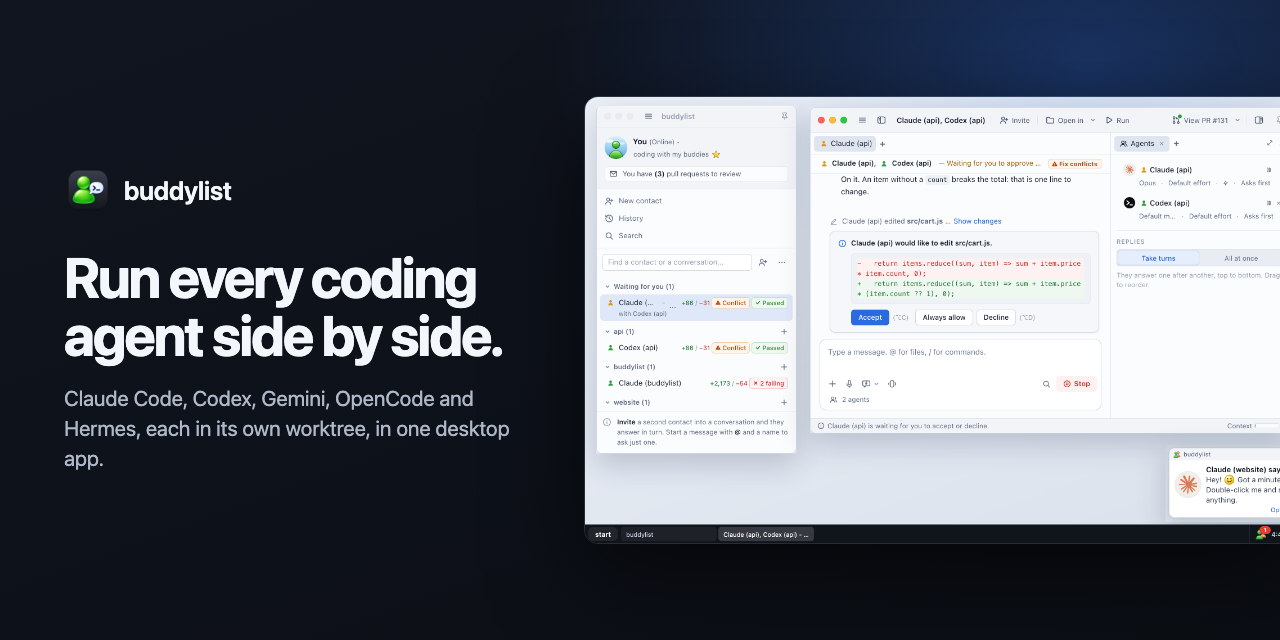
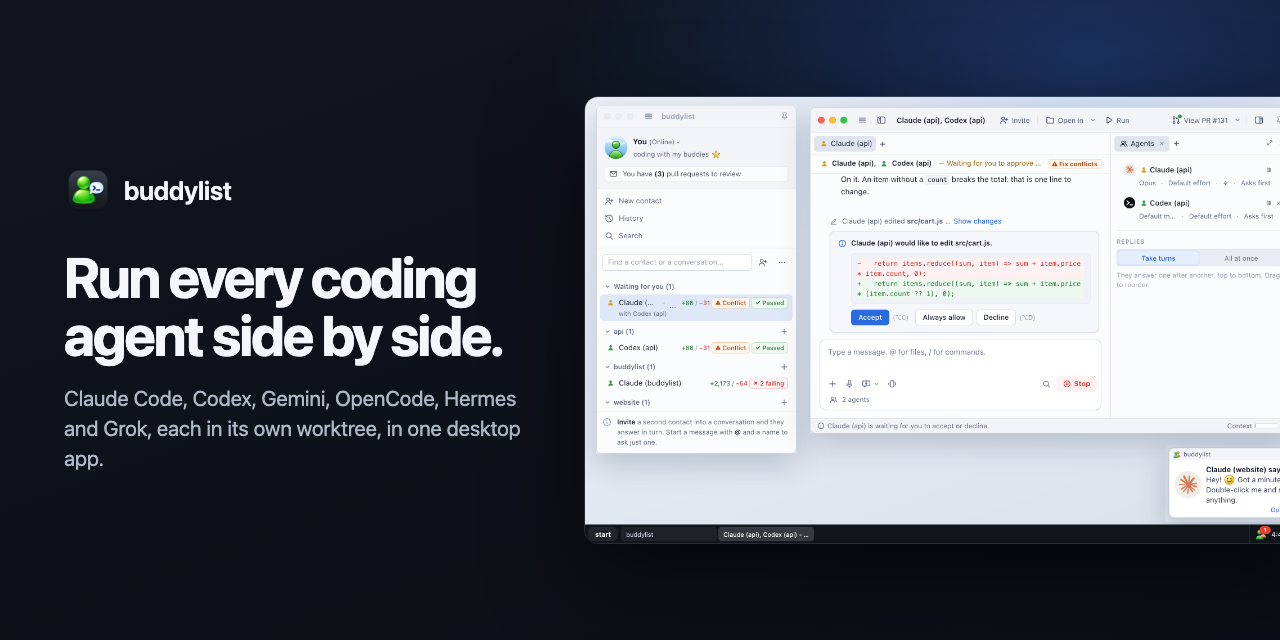
chore: prepare v0.7.5 release and site update (#35)

Changed region(s): [[0.0312, 0.5938, 0.4062, 0.6875]]

diff --git a/site/index.html b/site/index.html
@@ -3,10 +3,10 @@
   <head>
     <meta charset="utf-8" />
     <meta name="viewport" content="width=device-width, initial-scale=1" />
-    <title>buddylist: Claude Code, Codex, Gemini, OpenCode and Hermes on your desktop</title>
+    <title>buddylist: Claude Code, Codex, Gemini, OpenCode, Hermes and Grok on your desktop</title>
     <meta
       name="description"
-      content="Run Claude Code, Codex, Gemini, OpenCode and Hermes side by side, each in its own worktree, with group chats where they review each other. Mac, Windows, Linux."
+      content="Run Claude Code, Codex, Gemini, OpenCode, Hermes and Grok side by side, each in its own worktree, reviewing each other in group chats. Mac, Windows, Linux."
     />
     <meta name="robots" content="index, follow, max-image-preview:large" />
     <meta name="theme-color" content="#0a5ce0" />
@@ -17,9 +17,9 @@
     <meta property="og:title" content="buddylist: run every coding agent side by side" />
     <meta
       property="og:description"
-      content="Real Claude Code, Codex, Gemini, OpenCode and Hermes sessions side by side, each in its own worktree, with group chats where they review each other, and the diff, pull request and checks in one place."
+      content="Real Claude Code, Codex, Gemini, OpenCode, Hermes and Grok sessions side by side, each in its own worktree, with group chats where they review each other, and the diff, pull request and checks in one place."
     />
-    <meta property="og:image" content="__SITE_URL__/og-image.png?v=pro-20261024" />
+    <meta property="og:image" content="__SITE_URL__/og-image.png?v=pro-20261115" />
     <meta property="og:image:type" content="image/png" />
     <meta property="og:image:width" content="1200" />
     <meta property="og:image:height" content="630" />
@@ -93,6 +93,15 @@
         <path
           d="M18 71C24 47 48 31 80 27C74 37 68 41 60 43C70 45 74 47 76 49C64 55 56 57 50 57C58 61 62 63 62 65C48 71 32 73 18 71Z"
           fill="#f2c14e"
+        />
+      </symbol>
+      <symbol id="av-grok" viewBox="0 0 96 96">
+        <rect width="96" height="96" fill="#000" />
+        <path
+          transform="translate(16 16) scale(2.6667)"
+          d="M9.27 15.29l7.978-5.897c.391-.29.95-.177 1.137.272.98 2.369.542 5.215-1.41 7.169-1.951 1.954-4.667 2.382-7.149 1.406l-2.711 1.257c3.889 2.661 8.611 2.003 11.562-.953 2.341-2.344 3.066-5.539 2.388-8.42l.006.007c-.983-4.232.242-5.924 2.75-9.383.06-.082.12-.164.179-.248l-3.301 3.305v-.01L9.267 15.292M7.623 16.723c-2.792-2.67-2.31-6.801.071-9.184 1.761-1.763 4.647-2.483 7.166-1.425l2.705-1.25a7.808 7.808 0 00-1.829-1A8.975 8.975 0 005.984 5.83c-2.533 2.536-3.33 6.436-1.962 9.764 1.022 2.487-.653 4.246-2.34 6.022-.599.63-1.199 1.259-1.682 1.925l7.62-6.815"
+          fill="#fff"
+          fill-rule="evenodd"
         />
       </symbol>
       <symbol id="av-you" viewBox="0 0 96 96">
@@ -194,13 +203,13 @@
         <div class="wrap hero-split">
           <div class="hero-copy">
             <a class="pill" href="changelog" data-release-notes="hero">
-              <b>New</b><span>v0.7.4: link a pull request, and see which one is failing</span
+              <b>New</b><span>v0.7.5: Grok as an agent, and pictures on your phone</span
               ><svg viewBox="0 0 12 12" aria-hidden="true"><path d="M4 2.5 7.5 6 4 9.5" /></svg>
             </a>
             <h1>Run every coding agent side by side.</h1>
             <p class="lede">
-              One desktop app for Claude Code, Codex, Gemini, OpenCode and Hermes. Parallel worktrees, group chats where
-              agents review each other, and the diff, pull request and checks in one place.
+              One desktop app for Claude Code, Codex, Gemini, OpenCode, Hermes and Grok. Parallel worktrees, group chats
+              where agents review each other, and the diff, pull request and checks in one place.
             </p>
             <div class="cta">
               <a class="go" href="#download" data-download="hero" data-download-auto>
@@ -292,8 +301,8 @@
           <p class="eyebrow" data-reveal>The 30-second tour</p>
           <h2 id="tour-title" data-reveal>Your coding agents, together</h2>
           <p class="intro" data-reveal>
-            Bring Claude Code, Codex, Gemini, OpenCode and Hermes into one buddy list. Give each a job in the same group
-            chat.
+            Bring Claude Code, Codex, Gemini, OpenCode, Hermes and Grok into one buddy list. Give each a job in the same
+            group chat.
           </p>
           <!-- Wide screens can put the live demo in the film's place. -->
           <p class="tour-switch" data-tour-switch hidden>
@@ -366,10 +375,10 @@
 
             <div class="agents" data-reveal>
               <div class="agents-text">
-                <h3>Five agents, one list</h3>
+                <h3>Six agents, one list</h3>
                 <p>
-                  Pick Claude Code, Codex, Gemini, OpenCode or Hermes when you add a contact. Claude Code is built in.
-                  The others run the CLI on your computer, with the same login, settings and MCP servers.
+                  Pick Claude Code, Codex, Gemini, OpenCode, Hermes or Grok when you add a contact. Claude Code is built
+                  in. The others run the CLI on your computer, with the same login, settings and MCP servers.
                 </p>
               </div>
               <ul class="agent-cards" data-stagger>
@@ -388,6 +397,9 @@
                 </li>
                 <li>
                   <svg class="dp"><use href="#av-hermes" /></svg><b>Hermes</b><span>Your <code>hermes</code> CLI</span>
+                </li>
+                <li>
+                  <svg class="dp"><use href="#av-grok" /></svg><b>Grok</b><span>Your <code>grok</code> CLI</span>
                 </li>
               </ul>
             </div>
@@ -1008,8 +1020,8 @@
                 <span class="route-say">Claude (api) changed 3 files</span>
                 <h3>It looks at every change</h3>
                 <p>
-                  Choose Claude, Codex, Gemini, OpenCode or Hermes. Each time a conversation changes files, your manager
-                  checks them against the tickets, the design and the other worktrees.
+                  Choose Claude, Codex, Gemini, OpenCode, Hermes or Grok. Each time a conversation changes files, your
+                  manager checks them against the tickets, the design and the other worktrees.
                 </p>
               </li>
               <li data-reveal>
@@ -1737,10 +1749,10 @@
               <details>
                 <summary>What is buddylist?</summary>
                 <p>
-                  buddylist is a free desktop app for working with the Claude Code, Codex, Gemini, OpenCode and Hermes
-                  coding agents side by side. Every project folder is a contact in a buddy list, and every conversation
-                  is a real agent session that can read the project, run commands and edit files, in its own worktree.
-                  It comes in a quiet professional look, and in one styled after MSN Messenger 7.5.
+                  buddylist is a free desktop app for working with the Claude Code, Codex, Gemini, OpenCode, Hermes and
+                  Grok coding agents side by side. Every project folder is a contact in a buddy list, and every
+                  conversation is a real agent session that can read the project, run commands and edit files, in its
+                  own worktree. It comes in a quiet professional look, and in one styled after MSN Messenger 7.5.
                 </p>
               </details>
               <details>
@@ -1748,17 +1760,18 @@
                 <p>
                   Yes. buddylist is free to download and use, and open source under the MIT license, with its code on
                   GitHub. Each agent runs on your own account, as it does in your terminal: a Claude Code login or an
-                  Anthropic API key for Claude Code, and the CLI's own sign-in for Codex, Gemini, OpenCode and Hermes,
-                  so what they do counts against those plans.
+                  Anthropic API key for Claude Code, and the CLI's own sign-in for Codex, Gemini, OpenCode, Hermes and
+                  Grok, so what they do counts against those plans.
                 </p>
               </details>
               <details>
                 <summary>Do I need to install the agents myself?</summary>
                 <p>
-                  Not Claude Code: it comes with the app. Codex, Gemini, OpenCode and Hermes are not bundled, so install
-                  the ones you want: the guides to <a href="docs/codex">Codex</a>, <a href="docs/gemini">Gemini</a>,
-                  <a href="docs/opencode">OpenCode</a> and <a href="docs/hermes">Hermes</a> say how. Each agent signs in
-                  the way it does in your terminal. For Claude Code that is a Claude Code login on this computer, or an
+                  Not Claude Code: it comes with the app. Codex, Gemini, OpenCode, Hermes and Grok are not bundled, so
+                  install the ones you want: the guides to <a href="docs/codex">Codex</a>,
+                  <a href="docs/gemini">Gemini</a>, <a href="docs/opencode">OpenCode</a>,
+                  <a href="docs/hermes">Hermes</a> and <a href="docs/grok">Grok</a> say how. Each agent signs in the way
+                  it does in your terminal. For Claude Code that is a Claude Code login on this computer, or an
                   Anthropic API key.
                 </p>
               </details>
@@ -1790,7 +1803,7 @@
               <details>
                 <summary>Can an agent change my files without asking?</summary>
                 <p>
-                  Not unless you let it. Claude, Codex and Gemini ask first by default, and every command or edit
+                  Not unless you let it. Claude, Codex, Gemini and Grok ask first by default, and every command or edit
                   arrives as an invitation. <b>Permission mode</b>, or the mode's badge under the message box, can
                   loosen that, <b>Settings &gt; New contacts</b> picks the mode each service's new contacts start in,
                   and <b>Settings &gt; Roles &amp; teams</b> the one each role starts in. <b>Never ask</b> lets the
@@ -1911,7 +1924,7 @@
           <div class="outro-buddies" aria-hidden="true" data-reveal>
             <svg class="dp"><use href="#av-claude" /></svg><svg class="dp"><use href="#av-codex" /></svg
             ><svg class="dp"><use href="#av-gemini" /></svg><svg class="dp"><use href="#av-opencode" /></svg
-            ><svg class="dp"><use href="#av-hermes" /></svg>
+            ><svg class="dp"><use href="#av-hermes" /></svg><svg class="dp"><use href="#av-grok" /></svg>
           </div>
           <h2 data-reveal>Your agents have just signed in.</h2>
           <p class="lede" data-reveal>Add a project, pick who works on it, and say hello.</p>

diff --git a/site/site.css b/site/site.css
@@ -1220,7 +1220,7 @@ button.xp-btn:active {
   transform: none;
 }
 
-/* ---- five agents ------------------------------------------------------------------------ */
+/* ---- six agents ------------------------------------------------------------------------- */
 .agents {
   display: grid;
   grid-template-columns: minmax(0, 1fr) minmax(0, 1.5fr);
@@ -1253,9 +1253,10 @@ button.xp-btn:active {
   text-wrap: pretty;
 }
 
+/* Three over three, so a card's name and its line keep to one line each. */
 .agent-cards {
   display: grid;
-  grid-template-columns: repeat(5, minmax(0, 1fr));
+  grid-template-columns: repeat(3, minmax(0, 1fr));
   gap: 10px;
   margin: 0;
   padding: 0;
@@ -1301,21 +1302,6 @@ button.xp-btn:active {
   .agents {
     grid-template-columns: 1fr;
     padding: 22px 18px;
-  }
-}
-
-/* Narrow: three cards over two, the two centred under them. */
-@media (max-width: 639px) {
-  .agent-cards {
-    grid-template-columns: repeat(6, minmax(0, 1fr));
-  }
-
-  .agent-cards li {
-    grid-column: span 2;
-  }
-
-  .agent-cards li:nth-child(4) {
-    grid-column: 2 / span 2;
   }
 }
 
@@ -4350,6 +4336,10 @@ details p {
 
 .outro-buddies .dp:nth-child(5) {
   animation-delay: -0.5s;
+}
+
+.outro-buddies .dp:nth-child(6) {
+  animation-delay: -1.5s;
 }
 
 /* ---- feedback: a dialog with a form in it ------------------------------------------------- */

diff --git a/site/changelog.html b/site/changelog.html
@@ -6,7 +6,7 @@
     <title>What's new in buddylist: the changelog</title>
     <meta
       name="description"
-      content="What's new in buddylist for Mac, Windows and Linux: Claude Code, Codex, Gemini, OpenCode and Hermes in an MSN Messenger-style buddy list."
+      content="What's new in buddylist for Mac, Windows and Linux: Claude Code, Codex, Gemini, OpenCode, Hermes and Grok in an MSN Messenger-style buddy list."
     />
     <meta name="robots" content="index, follow, max-image-preview:large" />
     <meta name="theme-color" content="#0a5ce0" />
@@ -16,7 +16,7 @@
     <meta property="og:url" content="__SITE_URL__/changelog" />
     <meta property="og:title" content="What's new in buddylist" />
     <meta property="og:description" content="Every version of buddylist and what changed in it, newest first." />
-    <meta property="og:image" content="__SITE_URL__/og-image.png?v=pro-20261024" />
+    <meta property="og:image" content="__SITE_URL__/og-image.png?v=pro-20261115" />
     <meta property="og:image:type" content="image/png" />
     <meta property="og:image:width" content="1200" />
     <meta property="og:image:height" content="630" />

diff --git a/site/sponsor.html b/site/sponsor.html
@@ -19,7 +19,7 @@
       property="og:description"
       content="buddylist is free and made by one person. A coffee, a monthly sponsorship or a company's logo keeps it going."
     />
-    <meta property="og:image" content="__SITE_URL__/og-image.png?v=pro-20261024" />
+    <meta property="og:image" content="__SITE_URL__/og-image.png?v=pro-20261115" />
     <meta property="og:image:type" content="image/png" />
     <meta property="og:image:width" content="1200" />
     <meta property="og:image:height" content="630" />
@@ -92,7 +92,7 @@
           <div class="sponsor-letter">
             <p>
               There is no company behind buddylist and nothing to upgrade to: every feature is in the download. Keeping
-              it that way takes time every week. Claude Code, Codex, Gemini, OpenCode and Hermes change often, and
+              it that way takes time every week. Claude Code, Codex, Gemini, OpenCode, Hermes and Grok change often, and
               buddylist follows them: new models and modes, new tools, and a fix whenever one of them moves something
               the app relied on.
             </p>

diff --git a/site/docs.html b/site/docs.html
@@ -14,7 +14,7 @@
     <meta property="og:url" content="__SITE_URL____DOC_PATH__" />
     <meta property="og:title" content="__DOC_TITLE__ · buddylist docs" />
     <meta property="og:description" content="__DOC_ABOUT__" />
-    <meta property="og:image" content="__SITE_URL__/og-image.png?v=pro-20261024" />
+    <meta property="og:image" content="__SITE_URL__/og-image.png?v=pro-20261115" />
     <meta property="og:image:type" content="image/png" />
     <meta property="og:image:width" content="1200" />
     <meta property="og:image:height" content="630" />

diff --git a/site/og-image.html b/site/og-image.html
@@ -72,7 +72,7 @@
     <div class="words">
       <div class="brand"><img src="../build/icon-128.png" alt="" width="48" height="48" />buddylist</div>
       <h1>Run every coding agent side by side.</h1>
-      <p>Claude Code, Codex, Gemini, OpenCode and Hermes, each in its own worktree, in one desktop app.</p>
+      <p>Claude Code, Codex, Gemini, OpenCode, Hermes and Grok, each in its own worktree, in one desktop app.</p>
     </div>
     <div class="shot"><img src="../docs/screenshot.png" alt="" /></div>
   </body>

diff --git a/docs/landing-page.md b/docs/landing-page.md
@@ -9,7 +9,7 @@ This builds [`site/`](../site) into `dist/site/`: a static page with the browser
 
 The landing page uses [`index.html`](../site/index.html), [`site.css`](../site/site.css) and [`site.js`](../site/site.js), with small modules for download selection and visitor counts. The footer links to Product Hunt. There is no frontend framework. The build fills [`changelog.html`](../site/changelog.html) from [`changelog.md`](../site/changelog.md), includes [`sponsor.html`](../site/sponsor.html), and fills [`docs.html`](../site/docs.html) once for each guide.
 
-- **The hero is the app as a developer sees it first** (`.hero`): what it does on the left, and on the right a conversation and the contact list in the professional look, the look a new install starts in. They are screenshots of the app in demo mode, `hero-professional-*.webp` and `hero-messenger-*.webp`, a group chat with its diff in the **Changes** tab and a project's contact list. The **Professional** and **Messenger 2005** switch over them shows the other pair and puts the 2005 sky, Luna's buttons and its type behind the hero, and the line under them changes with it. Without scripts there is no switch, and the professional look stays. Four lines under it (`.points`) say what sets buddylist apart. The **New** pill links to the changelog, highlighting v0.7.4: linking a pull request to a conversation, and seeing which pull request is failing. The conversation card's invitations line links to the [remote access guide](remote-access.md) for answering them from a phone, and the browser card says a picture an agent shared can be drawn on too. Its unversioned link keeps working while the next release builds; the changelog only lists published versions.
+- **The hero is the app as a developer sees it first** (`.hero`): what it does on the left, and on the right a conversation and the contact list in the professional look, the look a new install starts in. They are screenshots of the app in demo mode, `hero-professional-*.webp` and `hero-messenger-*.webp`, a group chat with its diff in the **Changes** tab and a project's contact list. The **Professional** and **Messenger 2005** switch over them shows the other pair and puts the 2005 sky, Luna's buttons and its type behind the hero, and the line under them changes with it. Without scripts there is no switch, and the professional look stays. Four lines under it (`.points`) say what sets buddylist apart. The **New** pill links to the changelog, highlighting v0.7.5: Grok as a service, and a conversation's pictures in the phone app. The conversation card's invitations line links to the [remote access guide](remote-access.md) for answering them from a phone, and the browser card says a picture an agent shared can be drawn on too. Its unversioned link keeps working while the next release builds; the changelog only lists published versions.
 - **The page is in the professional look**, as the app is from its first start: the system's type, slate by day and ink for the header, the night band, the way out and the footer. Every window on it is drawn as the app draws it there (`.look-pro`, by day with `.day`): the toolbar on the title's row, a name over each reply, your own messages in bubbles. The page's own windows (the comparison of ways, the downloads and feedback) are `.sheet`s, drawn as the app draws a dialog. The 2005 messenger is kept for where the page shows it off: the hero's switch and **Two looks**, which set its type and Luna's colours with `.xp-type`.
 - **The artwork is the app's own.** A token such as `__TB_RUN__` or `__EMO_SMILE__` in `index.html` is replaced by that drawing from [`icons.js`](../src/renderer/lib/icons.js) or the emoticons: `TB_` is the toolbar's set, `SM_` the small icons, `LI_` the contact list's, `TAG_` the pull request tags, `NEXT_` the buttons after a merged one and `WIN_` the window buttons. `__PRO_ICONS__` writes the professional look's line icons, from [`pro.css`](../src/renderer/styles/pro.css), for a window drawn in that look, and for the page's own cards beside them (`.pro-icons`). [`scripts/site-artwork.js`](../scripts/site-artwork.js) has them all, and [`scripts/build-site.js`](../scripts/build-site.js) stops on a token it doesn't know.
 - **The small windows play a scene each**: the contact list, a conversation, a group conversation and the pane beside one. The manager's window stands still. They are plain markup styled like the app, and `site.js` plays them while they are on screen. A line of a conversation says in its attributes how it arrives: `data-type` is typed into the message box first, `data-typing` names who is writing while it is waited for, and `data-wait` is how long. In the conversation, `data-todo` on a line moves the agent's to-do list under the newest line on to the step it names once the line has arrived, or puts it away (`away`) when the agent stops. The line under the list says what the agent is doing on that step, from the step's `data-doing`, with a clock.

diff --git a/site/changelog.md b/site/changelog.md
@@ -11,11 +11,11 @@ its release is published. Write the notes first; `node scripts/release.js prepar
 version into package.json and package-lock.json in the release prep PR.
 -->
 
-## v0.7.5
+## v0.7.5 — 2026-11-15
 
-- **Click the links in a terminal** — A web address a terminal prints, such as a dev server’s `http://localhost:4100/`, is now a link: point at it to see where it goes, click to open it where links in the conversation open, or `⌘`-click for your own browser. The **Setup**, **Run** and **Background** tabs link theirs too. Links a program prints under other words show their real address, and only web pages open.
-- **Chat with Grok** — Pick **Grok** as the **Service** in **Add a Contact** to run the Grok Build installed on your computer, with its own sign-in, models and MCP servers. It asks before acting, plans without changing files, or never asks, and a manager can start Grok workers and invite Grok reviewers, which read and search but run no commands. The welcome wizard says whether it is installed and signed in.
-- **See a conversation’s pictures on your phone** — The phone app now shows the pictures you sent, the screenshots an agent’s tools took and the pictures its replies show from the contact’s folder, each loading as you scroll to it. Tap one to see it full screen: swipe to the others, pinch or double-tap to zoom, swipe down to close, and **Share** to save it to your phone. Your Mac sends only that conversation’s pictures, over the phone’s signed-in connection, and a phone-sized copy until you open one.
+- **Chat with Grok** — Pick **Grok** as the **Service** in **Add a Contact** to run the Grok Build installed on your computer, with its own sign-in, models and MCP servers. It asks before acting, plans without changing files, or never asks. A manager can start Grok workers and invite Grok reviewers, which read and search but run no commands. The welcome wizard says whether it is installed and signed in.
+- **See a conversation’s pictures on your phone** — The phone app now shows the pictures you sent, the screenshots an agent’s tools took and the pictures its replies show from the contact’s folder, each loading as you scroll to it. Tap one to see it full screen: swipe to the others, pinch or double-tap to zoom, swipe down to close, or **Share** it to save it. Your computer sends only that conversation’s pictures, over the phone’s signed-in connection, and a phone-sized copy until you open one.
+- **Click the links in a terminal** — A web address a terminal prints, such as a dev server’s `http://localhost:4100/`, is now a link: point at it to see where it goes, and click to open it where links in the conversation open, or `⌘`-click (`Ctrl`-click on Windows and Linux) for your own browser. The **Setup**, **Run** and **Background** tabs link theirs too. A link a program prints under other words shows its real address, and only web pages open.
 
 ## v0.7.4 — 2026-11-13
 
